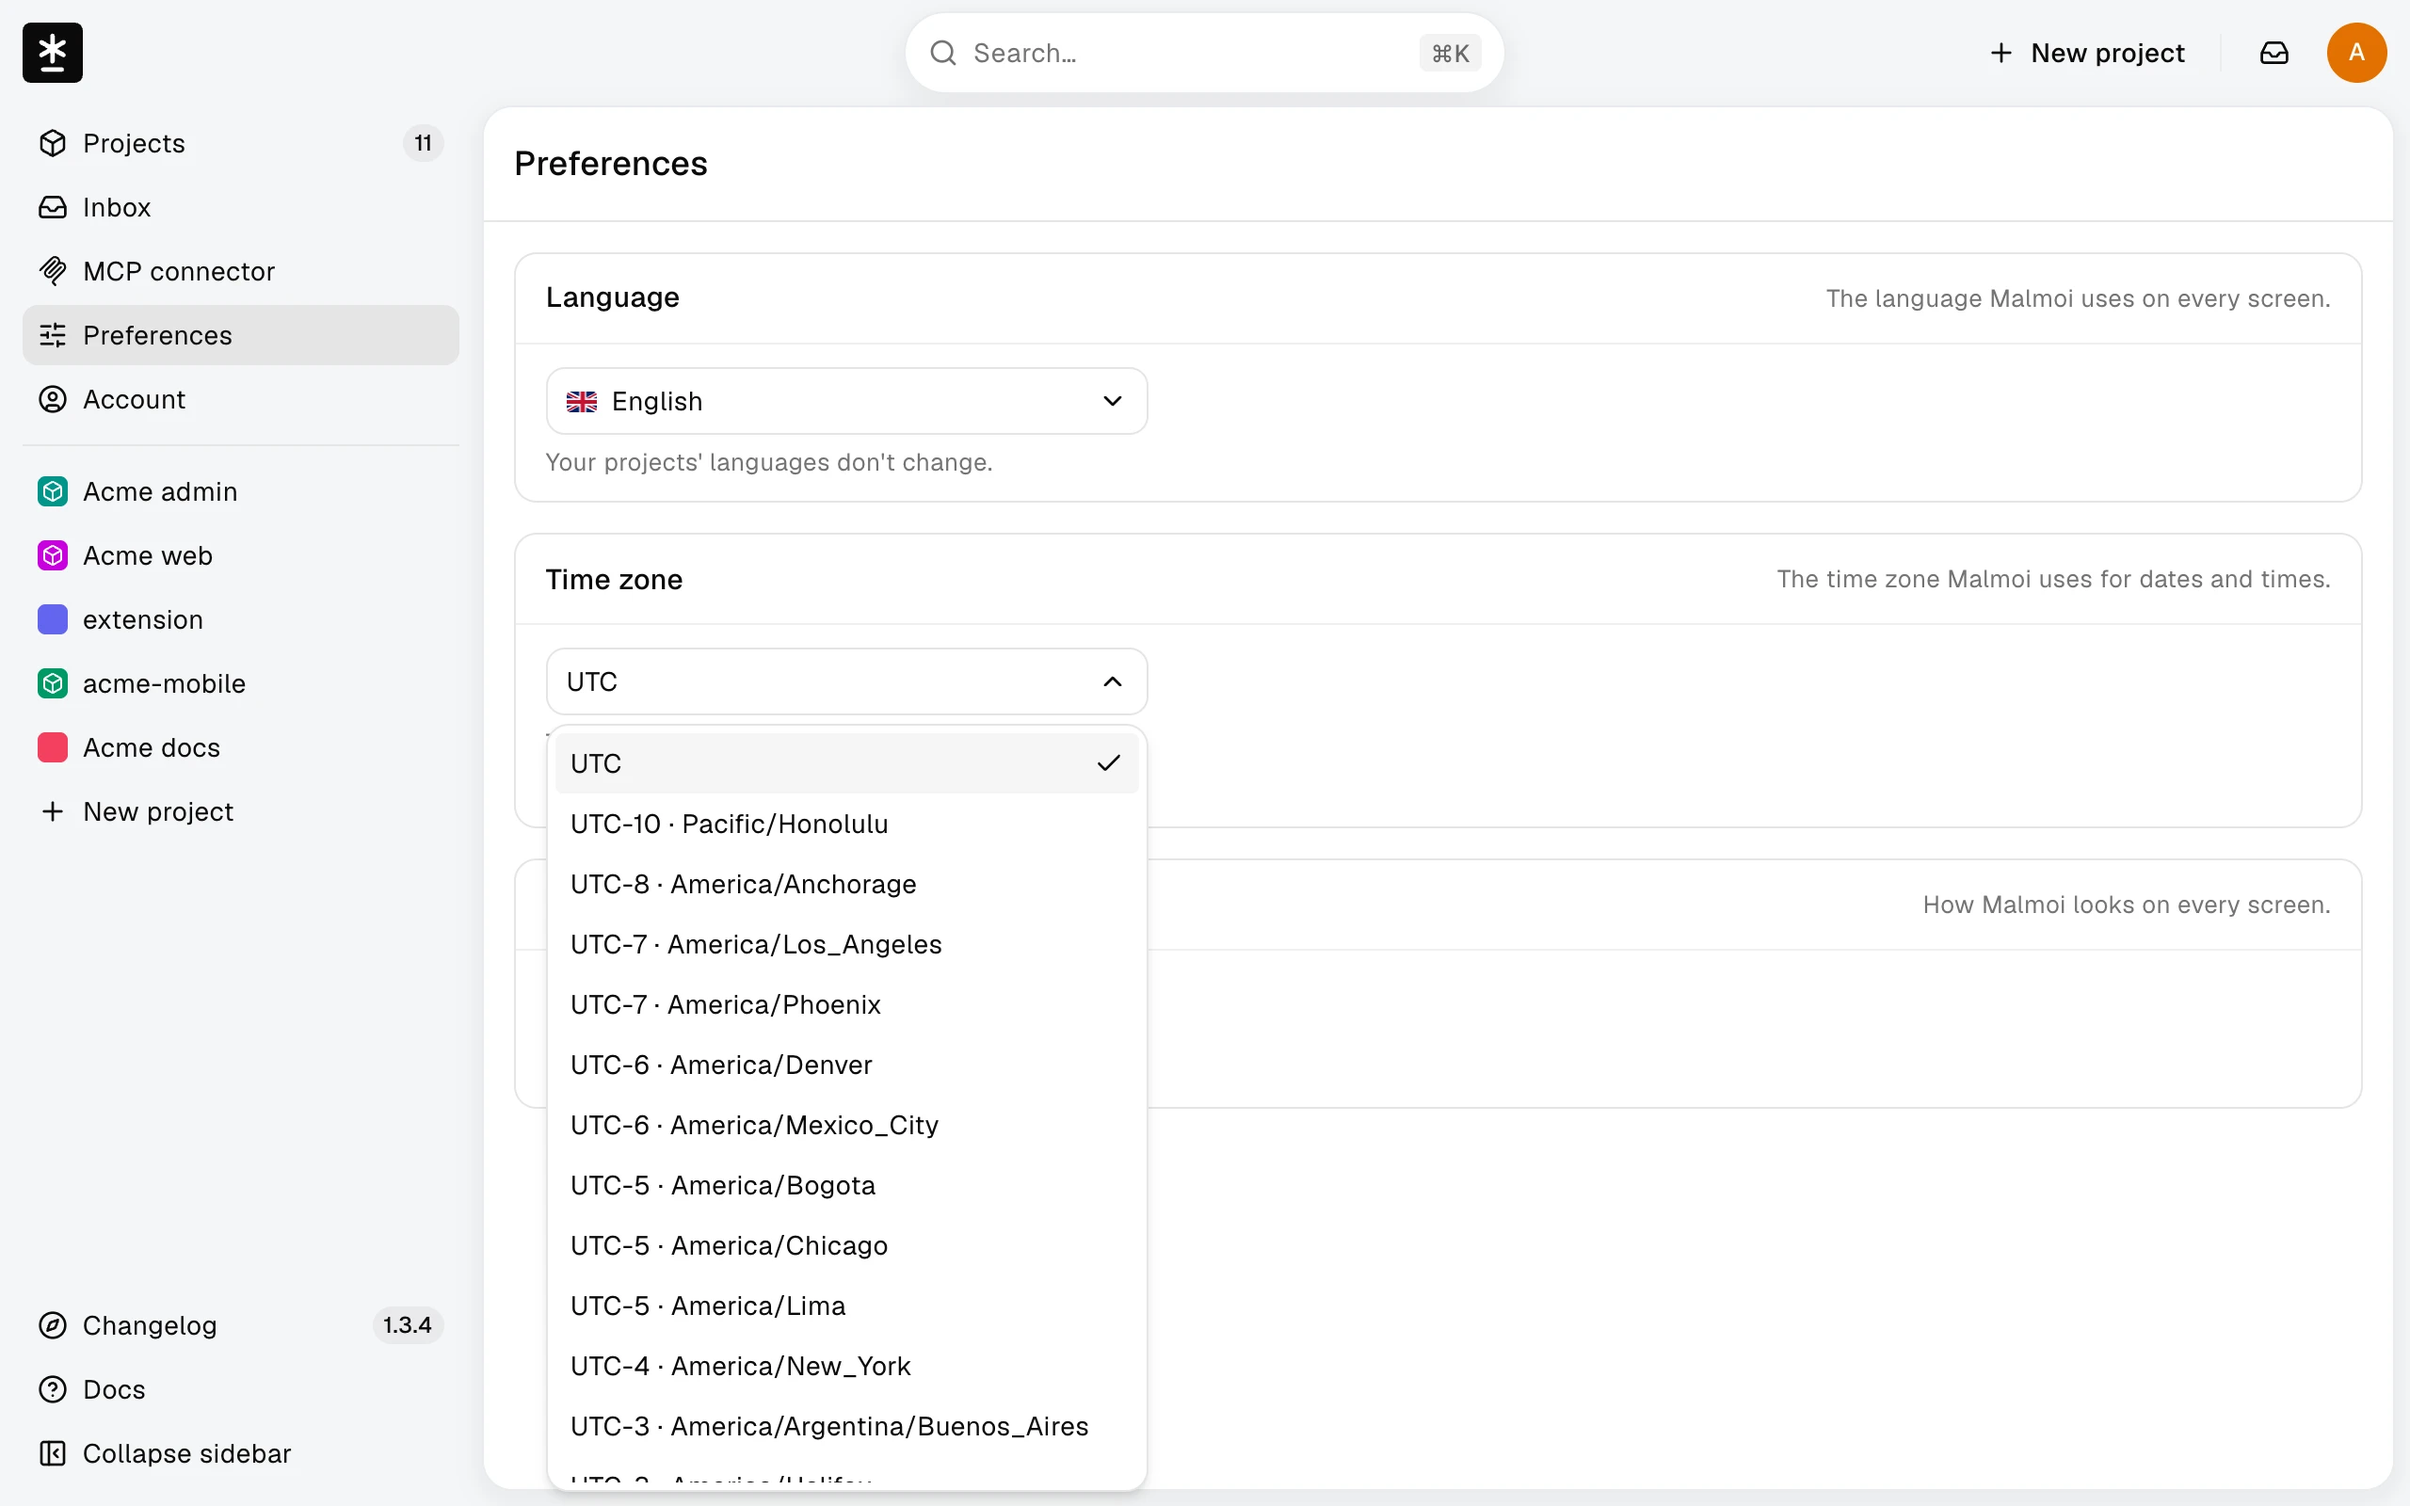
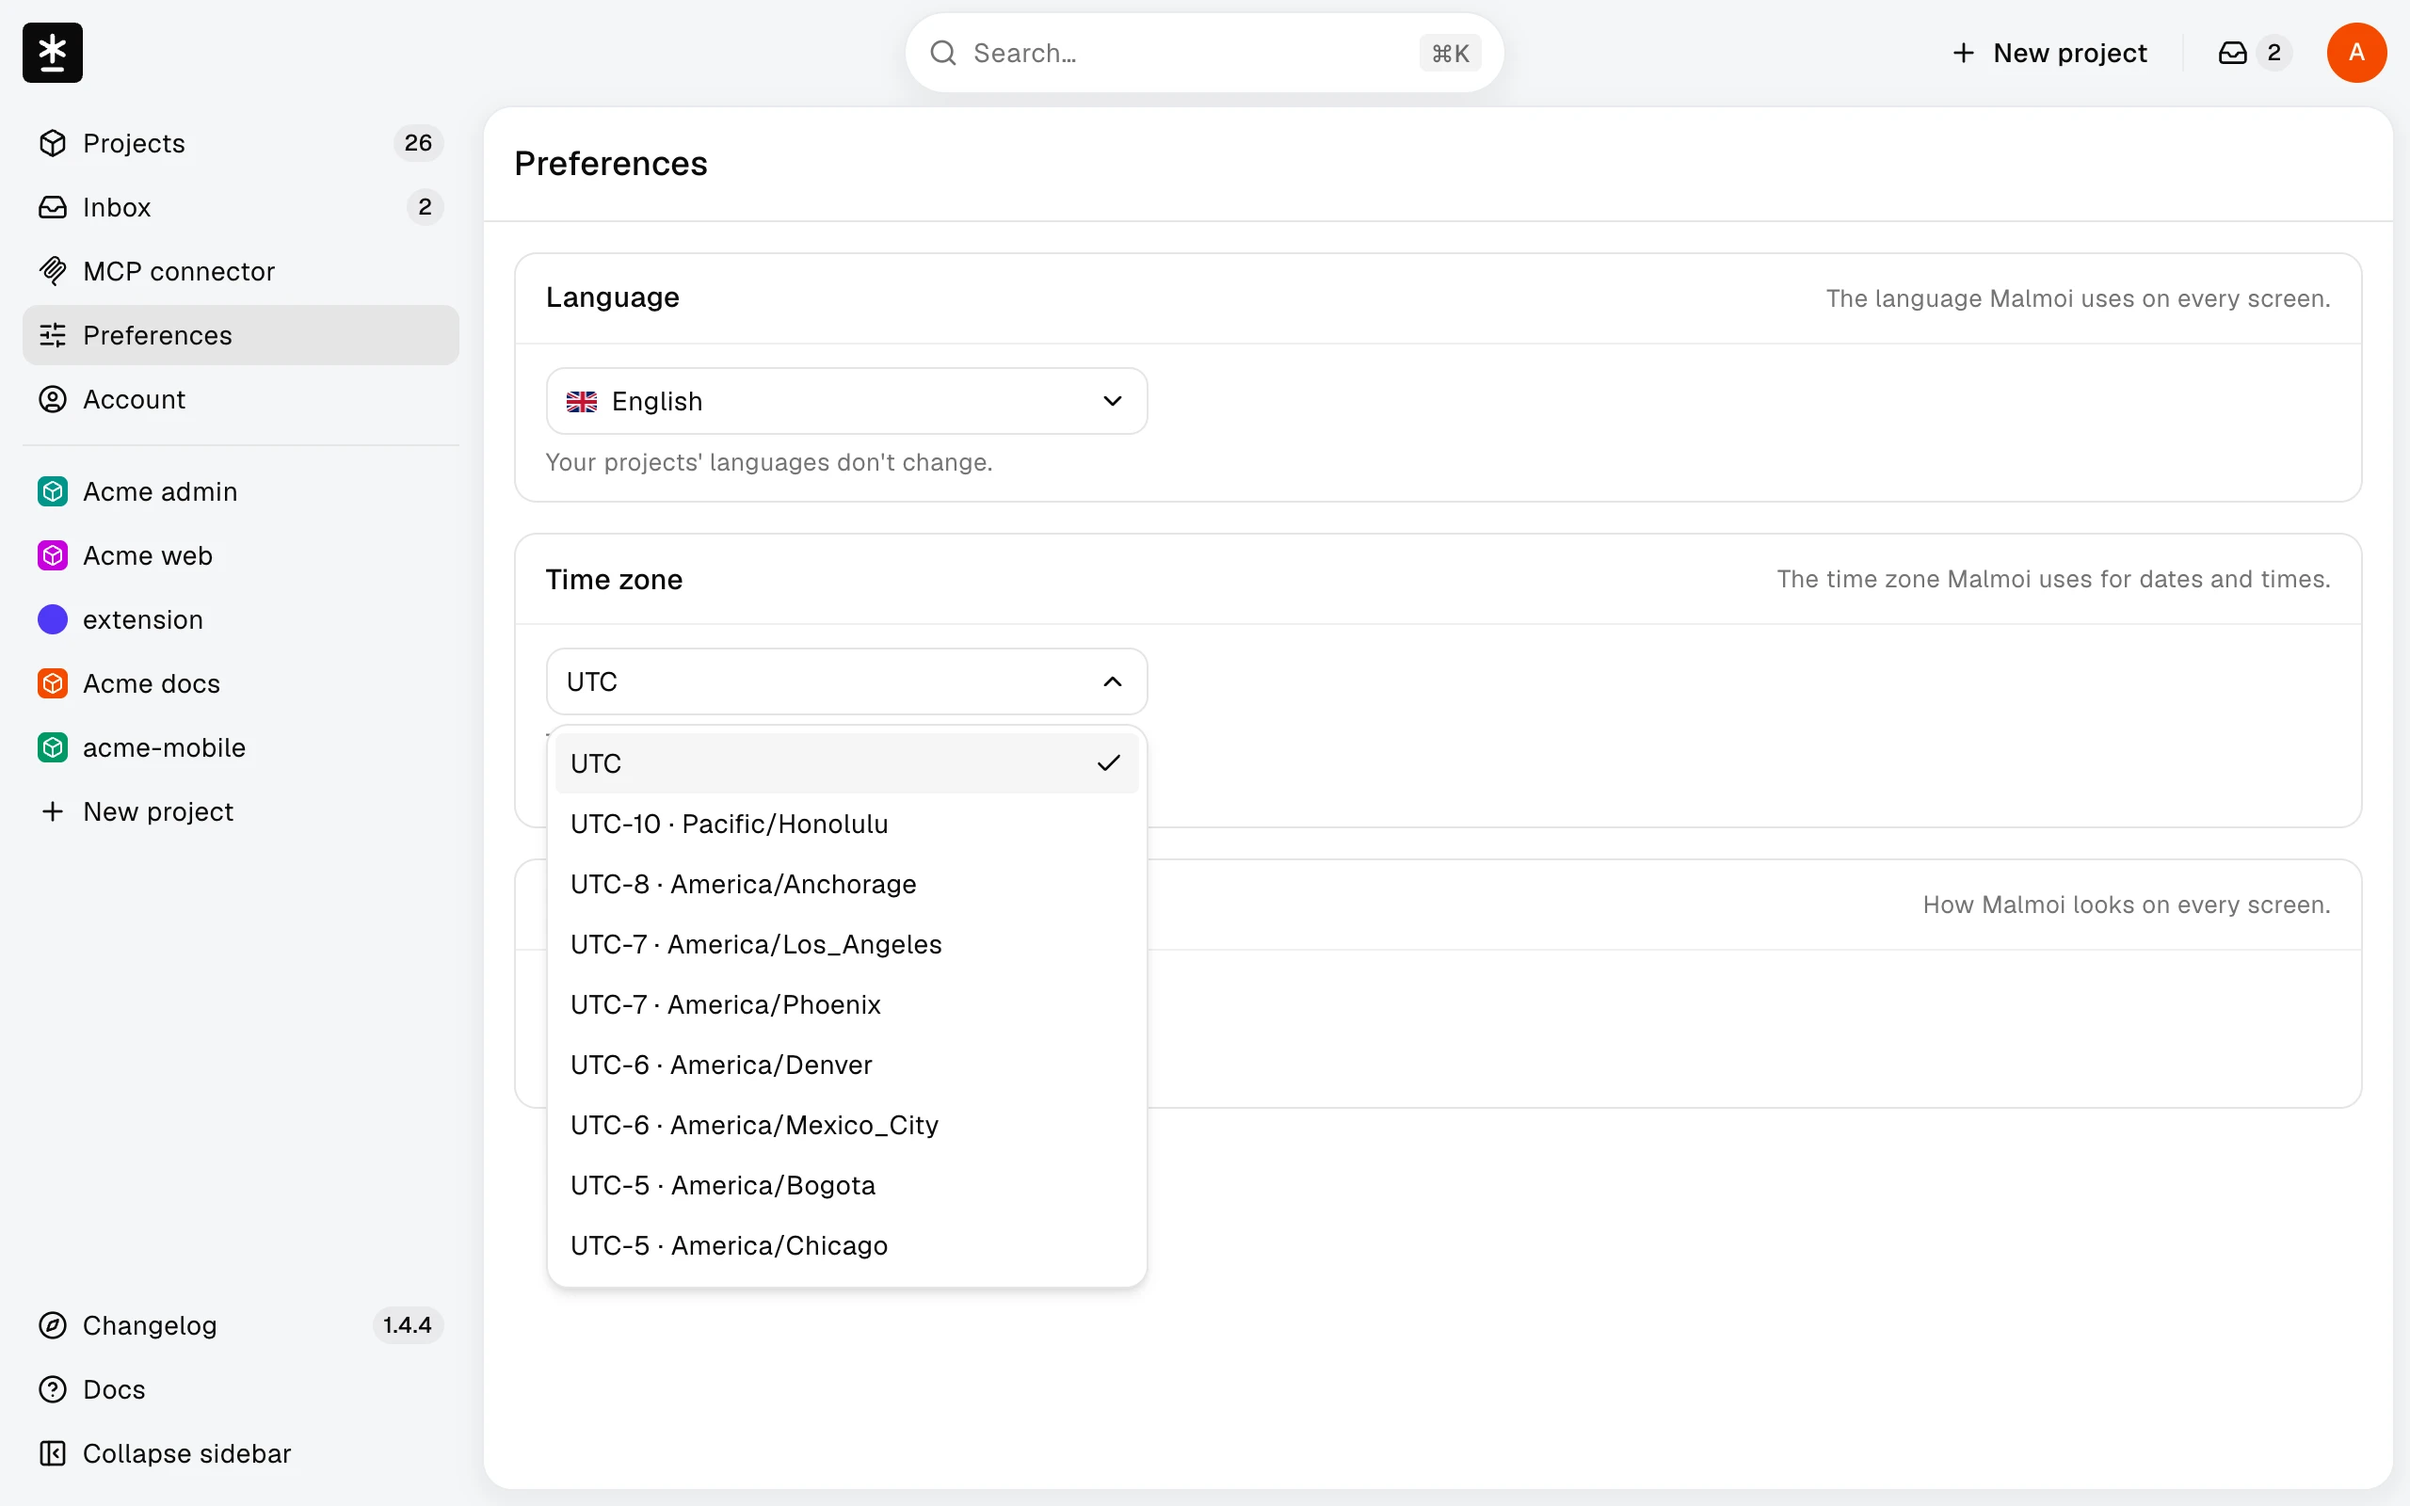
docs(guide): refresh time zone menu and locale screenshot mappings
Recapture the 300px time zone menu and track the shared Select source. Keep the supported JSON language scenes after checking their current browser rendering.

diff --git a/guide/SHOOTING.md b/guide/SHOOTING.md
@@ -203,15 +203,15 @@
 | /guide/home-sync-tab.webp | app/(edit)/projects/[slug]/(home)/page.tsx, components/home/meta-column.tsx, components/home/meta-tabs.tsx, components/home/sync-result.tsx, dict:projects.summary.newFromGithub | 705017cd7d48038d6777a2620df97ed5a9e0c6a7, 0e67fc7c827d5c28da3bf0c9f7ea71a127c27c6f, 326a71e9fadefec3992bad2e9acf0192fa107a35, aca196a214f9e8e6c9f460da7126300de24fc04a, d446176b65708906041b4a7df027fa8e2155349d | 2560x1600 |
 | /guide/logs-list.webp | app/(edit)/projects/[slug]/logs/page.tsx, components/logs/log-filters.tsx, components/logs/event-row.tsx, components/ui/filter-menu.tsx | 965a0af77acd975284dd5de8cec3b7b17207000a, dca3b2a89e68e4655d112f01349d2c418bb90897, 81133eea79512138c1a32ae17ed90e5c562780c1, d6495652eca69626ce9574e17c52ec7813e7b021 | 2560x1600 |
 | /guide/source-details.webp | components/sources/source-detail-modal.tsx, components/sources/base-language-form.tsx | 0f470aee0847fb2a6222fe04e52a77ae3541d134, cf272f613cb1d0cd11a00a71aae14f865656b684 | 2560x1600 |
-| /guide/languages-card.webp | components/sources/languages-card.tsx, components/sources/language-row.ts | ce08bb1c398870fdca7c797098b1b35e31b27db5, 1b9ff9bc4526fa9ebdc7b8128b24728fd69cbc24 | 2560x1600 |
+| /guide/languages-card.webp | components/sources/languages-card.tsx, components/sources/language-row.ts | bc149d761538b23736afdff77931ff716fc5fb02, 9b8ef5b5ad46d8dffe83749e871eb6dd81681e13 | 2560x1600 |
 | /guide/language-add.webp | components/sources/add-locale-dialog.tsx | d2cd2c1050bdb700660ecb31cb033b08282d8a3e | 2560x1600 |
-| /guide/language-remove.webp | components/sources/remove-locale-dialog.tsx | 8e6a451b8d12d5517fa058e6bb3f719c180d8218 | 2560x1600 |
+| /guide/language-remove.webp | components/sources/remove-locale-dialog.tsx | 7feb03ac314fa5d979632c8401b37802fcac8a31 | 2560x1600 |
 | /guide/publish-language-changes.webp | components/publish-button.tsx, lib/publish/preview.ts | 035ee1364fd82710d1ca646d93aa523817475b2f, 8376a9b3e2896b2728bbf79a64281b3fced96bb7 | 2560x1600 |
 | /guide/source-remove.webp | components/sources/remove-source-dialog.tsx, components/sources/source-detail-modal.tsx | 5eb13a9ed0df2a070105176aae30556177423001, 0f470aee0847fb2a6222fe04e52a77ae3541d134 | 2560x1600 |
 | /guide/archive-restore.webp | components/settings/archive-card.tsx, app/(edit)/projects/[slug]/settings/page.tsx | fbf5ba1bd7b87ff3c8ea910d2876d810b3deb440, 47ff29741aedf6c233ce93830805293f203573da | 2560x1600 |
 | /guide/account-connections.webp | components/account/github-section.tsx, components/account/gitlab-section.tsx, components/account/sessions-section.tsx | 14e5cf37c07bc1e566ce9aa32ce6392663269af2, 1925ee36a6dc1bb83791d096b39fb13bdc845490, 4e732e70ca663f3f9cbc6e5616c2d3ac550f6412 | 2560x1600 |
 | /guide/sign-out-everywhere.webp | components/account/sessions-section.tsx | 4e732e70ca663f3f9cbc6e5616c2d3ac550f6412 | 2560x1600 |
-| /guide/preferences-time-zone.webp | components/preferences/time-zone-card.tsx, components/preferences/preference-select-card.tsx | e89003ad1ccfc47db86ab5c6afc09e6f95d6aefb, b3369b152d1f9da4cc00f01dddb6fc036d14d504 | 2560x1600 |
+| /guide/preferences-time-zone.webp | components/preferences/time-zone-card.tsx, components/preferences/preference-select-card.tsx, components/ui/select.tsx | e89003ad1ccfc47db86ab5c6afc09e6f95d6aefb, b3369b152d1f9da4cc00f01dddb6fc036d14d504, dcfb5922918aa71c94d92249bbc2c3edacf0730f | 2560x1600 |
 | /guide/invite-unavailable.webp | app/invite/[token]/page.tsx | d4d36ad336ad4d41488b964252c22a299fd49457 | 2560x1600 |
 | /guide/global-search.webp | components/search/search-dialog.tsx | db77550c790611dc205739a8e22e70ab6949ea49 | 2560x1600 |
 | /guide/translation-edit.webp | components/translations/workspace/locale-panel.tsx, components/translations/workspace/key-list.tsx, components/translations/workspace/workspace.tsx, components/translations/workspace/filter-menu.tsx, components/ui/filter-menu.tsx | 4b2203aacfa954db9ac0811cca5b21513807caf5, 2c42ea96c69fe2f89dd975ed4d0435bab8f2df2b, 5df630251d1a2ca581462bc0ae3c0030e767eaa9, 9bca3bdb0cd0de05353601ad25d84b3bca76c752, d6495652eca69626ce9574e17c52ec7813e7b021 | 2560x1600 |
@@ -297,3 +297,4 @@
 - 2026-10-18 project-row-redesign G — `guide:check` stale 2컷(7건) **재촬영**(1280×800 · DPR 2, WebP quality 90, EDITOR): `inbox-open` · `inbox-page`. 바뀐 것은 Inbox 정렬(안 읽은 항목이 있는 프로젝트 먼저 — `86ce7a67`)과 연결 끊김 항목(`needs_reconnect`)의 추가다. 촬영 픽스처에는 끊긴 프로젝트가 없어 그 항목은 컷에 없다 — 장면은 전 판과 같다(그룹 둘 · 안 읽은 점 셋). 매핑 소스·치수 그대로, SHA 갱신. 셋업: Google로 EDITOR 로그인 → `checkout.submit` fr `Passer la commande` 저장 → 그 **뒤에** `bugshot-i18n-test-qa`의 `_locales`에 `import-failed`(now) · `namespaces`에 `partial-import`(2h 전)를 심었다 → EDITOR `attentionSeenAt` NULL → `inbox-open`(번역 화면 위 드롭다운) → 다시 NULL → `inbox-page` → 실패 표시 NULL 복원 → 빈 값 재저장 → Publish(`Nothing differs` 확인 뒤에만 누름 → `Nothing changed in the files`) → EDITOR `attentionSeenAt`을 촬영 전 원문 `2026-10-10 23:14:42.633`으로 복원 → 로그아웃 → GitHub로 OWNER 복귀. 전후 대조: 미전달 0→0(전 프로젝트), `acme-web` 사건 166→169(편집·재저장·Publish), 전체 1618→1621, 실패 표시 0, 계정 언어·테마·`attentionSeenAt`·세션 수·OAuth·API 토큰·`GitLabConnection`·`acme-web` 로케일 불변, GitHub 쓰기 없음. ⚠ **새로 밟은 것**: 드롭다운 컷 다음 명령(`keyboard.press("Escape")` + `clearDeviceMetricsOverride`)이 출력 없이 멈췄다(원인 미확인 — 끊고 같은 Escape만 다시 보내자 바로 됐다). 그 명령 뒤에 이은 DB 쓰기·스크립트 작성도 함께 돌지 않았으므로, 멈춘 체인을 끊었으면 뒤 단계가 실행됐는지 하나씩 확인한다.
 - 2026-10-18 language-request-todo — Home(`page.tsx`·`count-cards.tsx`)·Inbox(`attention-view.ts`·`plan.ts`) 변경으로 `project-home` · `home-publish` · `home-paused` · `home-sync-tab` · `inbox-open` · `inbox-page`가 stale — **재촬영 없이 blob SHA만 갱신**했다. 바뀐 줄은 전부 언어 변경(`language_unsent` 종류 · `locale-change-pending` 보류 · `languageChanges` 보조 줄 · `HoldLater` 기본 줄) 갈래이고, 촬영 데이터(dev DB 활성 프로젝트 11개)에 `LocaleChange` 행·전달된 언어 효과가 0이라 여섯 화면 어디에도 그 갈래가 그려지지 않는다(`languageChanges` 0 → 기존 `nothing to send`, `HoldLater` 기본 줄 = 같은 문장).
 - 2026-10-18 inbox-filter-search S — `guide:check` stale 7컷(9건) 정리. **재촬영 1**: `inbox-page`(EDITOR, en 계정·쿠키, 1280×800 · DPR 2, 2560×1600 WebP quality 90) — 기본 `All items` · `Any project` · `Search items…` 줄, 카드 둘과 안 읽은 점 셋. 실제 로컬 앱을 캡처해 이름·아바타·프로젝트 이미지를 마스킹하고 PNG·변환 WebP를 각각 육안 확인한 뒤 반영했다. **SHA만 갱신 6**: `translation-editor` · `translation-edit` · `revert-confirm` · `unsaved-changes`는 `FilterMenu`→`OptionsFilterMenu` import·호출 이름만 바뀌었다. `state-filter` · `logs-list`는 같은 트리거·메뉴 껍데기를 공통 `components/ui/filter-menu.tsx`로 옮겼다 — 기존 소비자는 `className`을 넘기지 않아 라벨 span을 추가하지 않고, 기본 크기·정렬·`min-w-53`·항목·설명·문구를 그대로 쓴다. 기록된 blob과 현재 소스의 diff 및 Q2의 실제 소비자 회귀 근거로 화면 불변을 판정했다. 매핑에 공통 `filter-menu.tsx`와 해당 번역 래퍼를 더하고, Inbox에는 `inbox-filters.tsx`·`search-input.tsx`도 더했다(각 행 소스·blob 개수 일치, 일곱 파일 모두 2560×1600). **픽스처·원복**: 첫 앱 탐색 전에 계정 둘의 `attentionSeenAt`·언어·테마·시간대, 상주 프로젝트 둘, QA 소스 둘, `checkout.submit` fr 칸의 값·저자·시각·검토 상태·편집 토큰을 저장했다. dev DB에서 그 칸에 촬영용 값·토큰을, QA 소스 둘에 실패·일부 동기화 표시를 임시로 심고 EDITOR 워터마크만 NULL로 뒀다. 촬영 뒤 OWNER 세션으로 복귀하고 TaskSpace 15 종료·직접 시작한 서버 정지 후 저장한 필드 전부를 정확히 복원했다. 미전달 전체 7→7, 사건 전체 1629→1629, 상주 프로젝트 유지, Publish·Sync·원격 리포 쓰기 없음. `.scratch/inbox-filter-search/S-restoration.json`의 `allRestored=true`. 마스킹 표 추가·본문 후속·남은 컷 없음.
+- 2026-10-19 locale-change-formats S — `guide:check` stale 2컷(3건)을 정리했다. **재촬영 1**: `preferences-time-zone`(OWNER, en 계정·쿠키, 1280×800 · DPR 2, 2560×1600 WebP quality 90) — 실제 열린 메뉴 높이 300px·UTC 체크·42개 항목. 기존 컷의 화면 끝까지 이어진 목록이 줄어들어 다시 찍고 `components/ui/select.tsx`를 매핑에 추가했다. 다른 컷 목록에서 열린 공통 Select는 이 컷뿐이다(온보딩 기준 언어는 라디오, 소스 기준 언어는 닫힌 장면, JSON 언어 추가는 Combobox). **SHA만 갱신 2**: `languages-card` — 상주 `Acme web`의 JSON `emails`에 기준·일반·Adding+Unsent·Removing+Unsent·Inactive 여섯 행을 실제로 준비해 캡처하고 기존 컷과 대조했다. 머리 설명·Add·행 동작·Open 정렬·Inactive 복구 문장은 같다. `language-remove` — 같은 소스의 실제 `ja` 제거 미리보기를 캡처해 File `i18n/emails/ja.json`·보존 번역 9건·미전달 1건 경고·앱 코드 경고·버튼 배치가 같음을 확인했다. nullable File 변경은 파일 경로가 있는 이 장면을 바꾸지 않는다. PNG·변환 WebP를 각각 육안 확인한 뒤 시간대 컷만 반영했다. 마스킹 표 추가·원고 수정·새 에셋 없음. 셋업은 `ko` Inactive·`ja` 편집/전달 기준을 SQL로 준비하고 실제 UI에서 `es` 추가·`ja` 제거, `es` 번역은 SQL로 넣었다. Publish·Sync·원격 리포 쓰기 없음. 최초 브라우저 방문 전의 전체 DB 스냅샷으로 촬영 뒤 임시 행·사건을 제거하고 기존 행을 정확히 복원했다(언어·테마·시간대·`attentionSeenAt`·자격증명·세션·상주 QA 포함). Q2와 같은 TaskSpace를 순차 사용하고 마지막에 닫았다. 남은 컷 없음.
